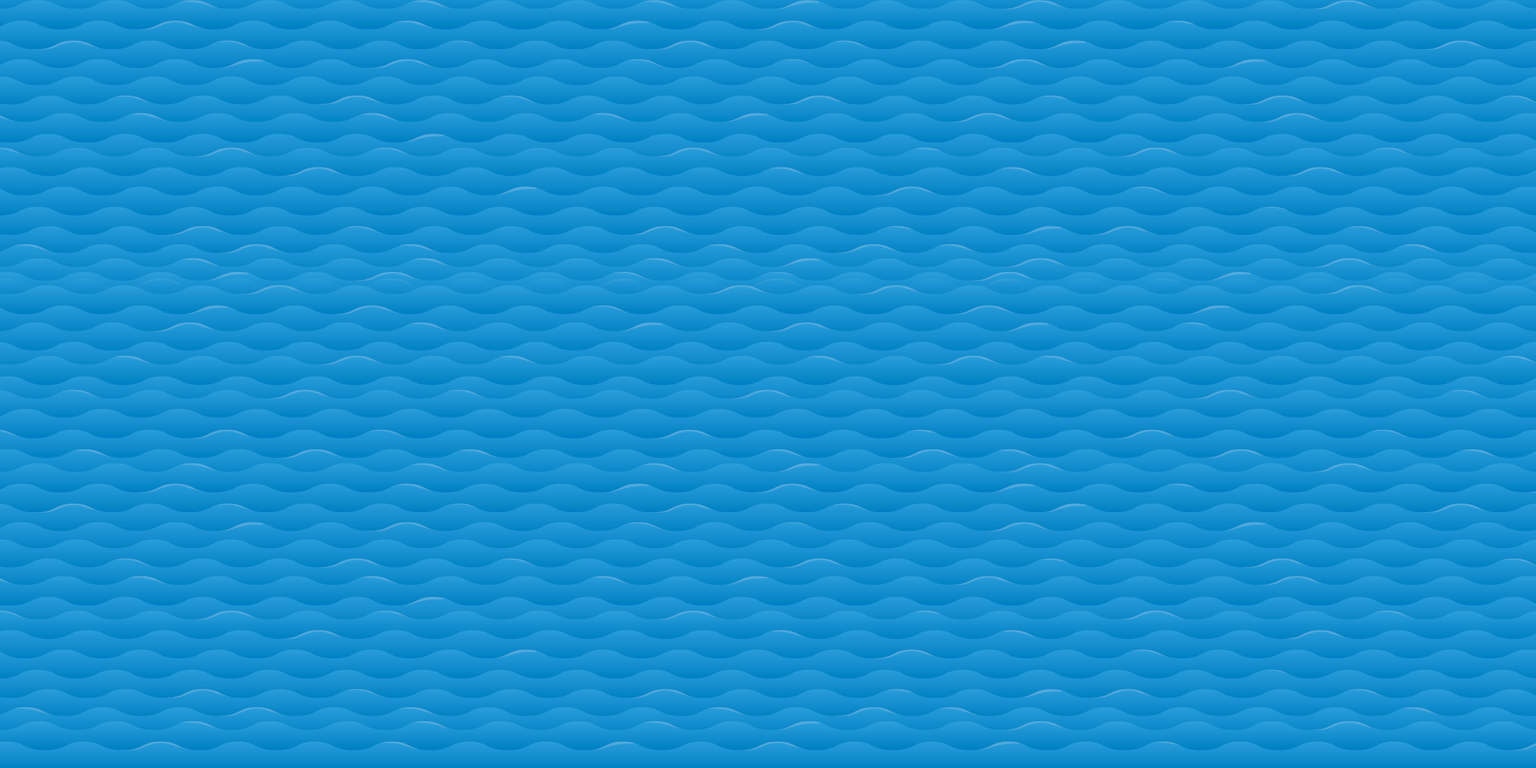
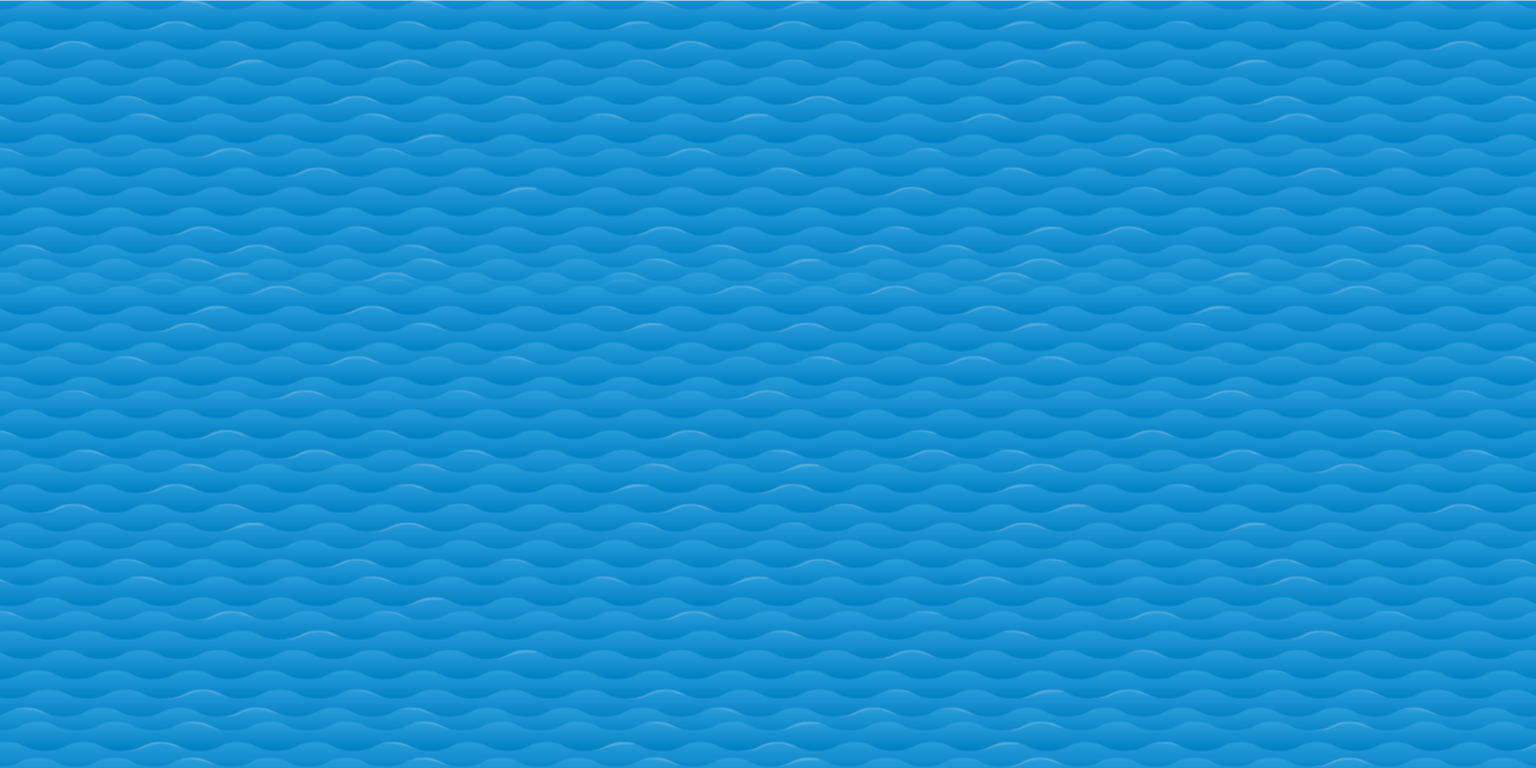
Menu update

Changed region(s): [[0.0, 0.9688, 1.0, 1.0]]

diff --git a/src/Preloader.js b/src/Preloader.js
@@ -24,8 +24,8 @@ ISC.Preloader.prototype = {
 
         // Here we load the rest of the assets our game needs.
         // You can find all of these assets in the Phaser Examples repository
-        
-        this.load.image('sea', 'images/sea-bg-grid.png');
+
+        this.load.image('sea', 'images/sea-bg.png');
         this.load.image('splash', 'images/ecran-titre.jpg');
         this.load.image('endscr', 'images/ecran.jpg');
         this.load.image('UI', 'images/menu/bg-menu.png');
